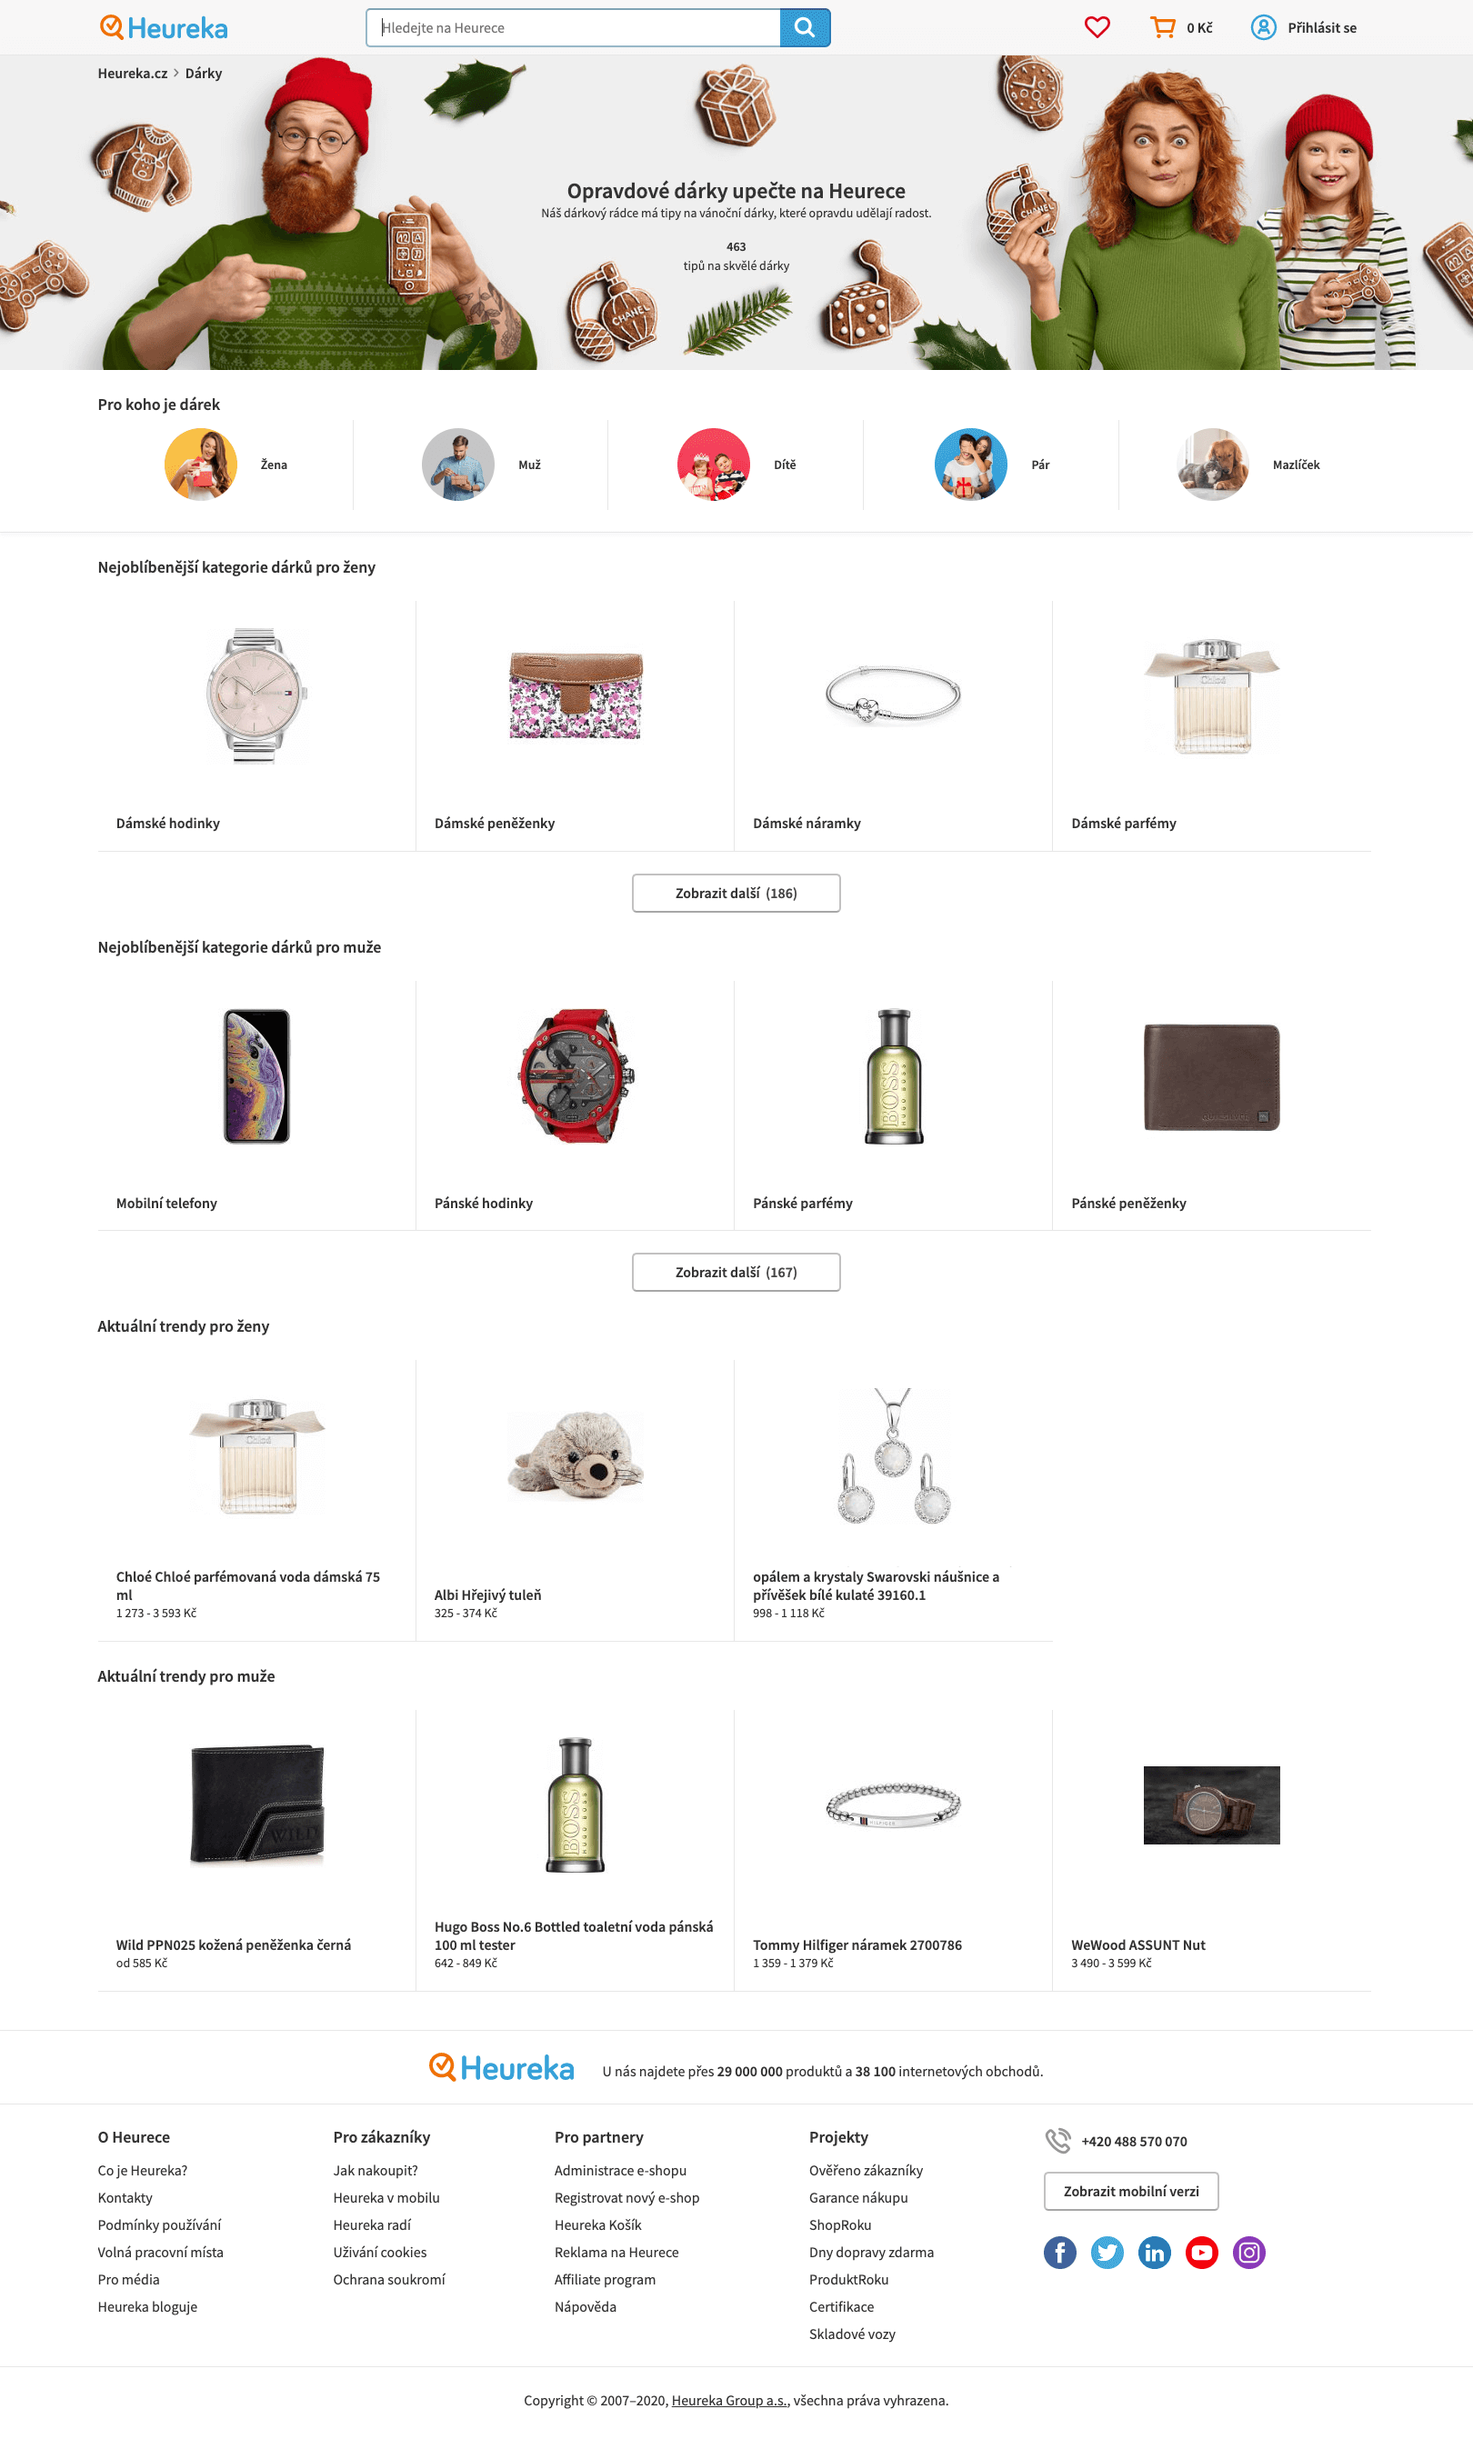
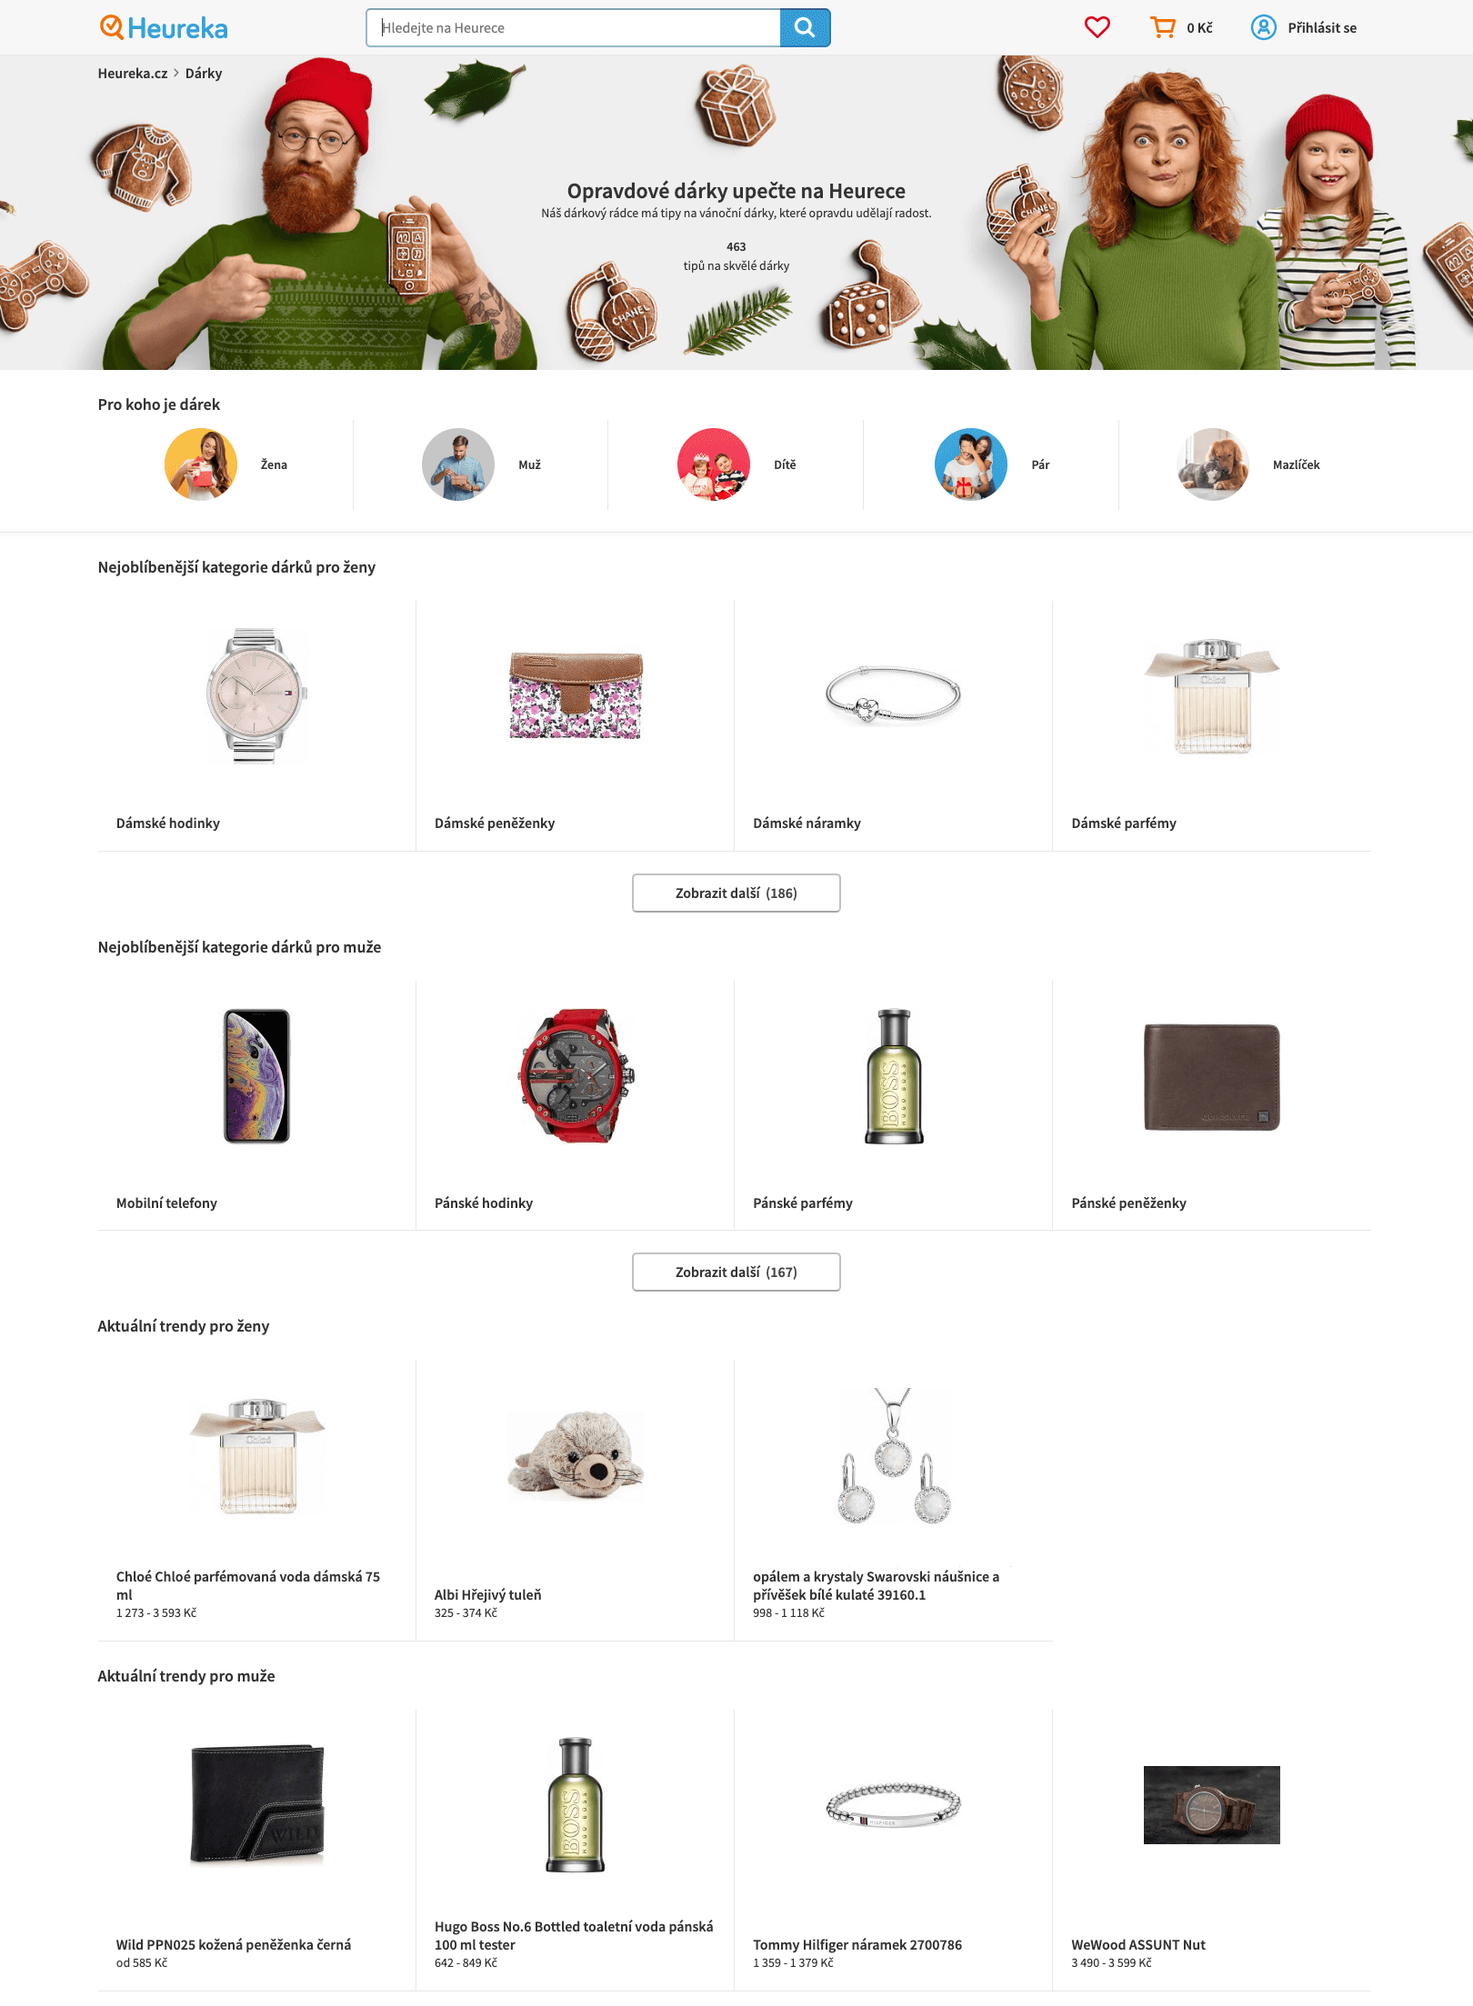
Crop images, fix categories in Gift Post

diff --git a/_posts/2020-02-17-nove-darky-na-heurece/index.md b/_posts/2020-02-17-nove-darky-na-heurece/index.md
@@ -5,7 +5,7 @@ permalink: /nove-darky-na-heurece/
 date: 2020-02-17 13:04:00 +0200
 author: Romana Trusínová a Michaela Koucká
 tags: productdiscovery frontend
-categories: [blog design]
+categories: [blog, design]
 imageUrl: /assets/nove-darky-na-heurece/darky-vyzkum.jpg
 ---
 
